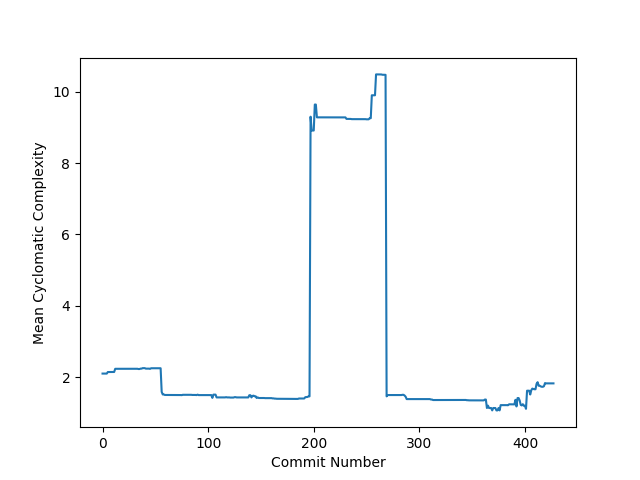
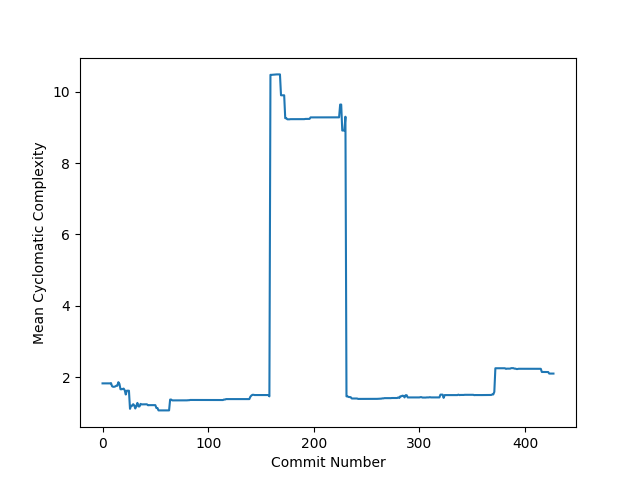
Graph is now in order

diff --git a/Lab2/manager/project/api.py b/Lab2/manager/project/api.py
@@ -28,7 +28,7 @@ def finish():
     if not graphed:
         graphed = True
         x_axis = list(range(len(commit_list)))
-        y_axis = commit_complexities
+        y_axis = commit_complexities[::-1]
         plt.plot(x_axis, y_axis)
         plt.xlabel('Commit Number')
         plt.ylabel('Mean Cyclomatic Complexity')
